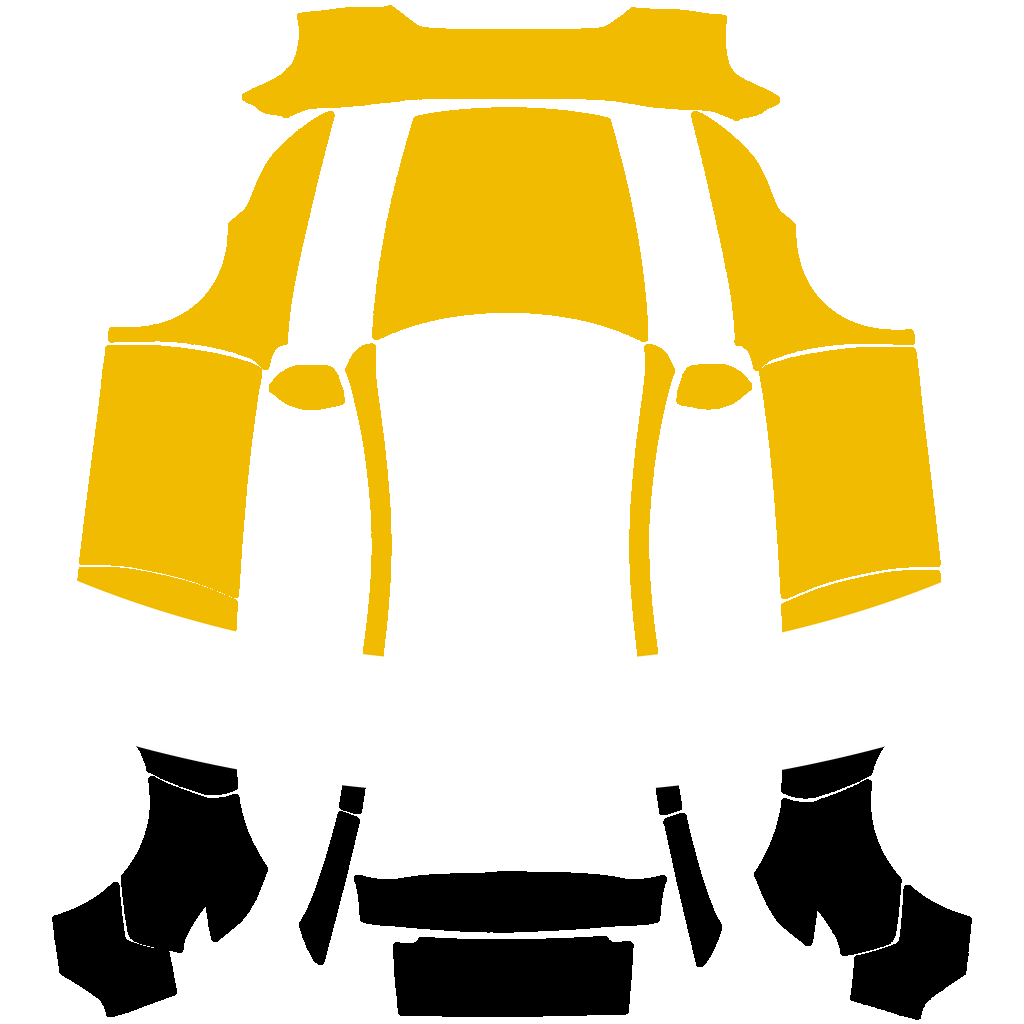
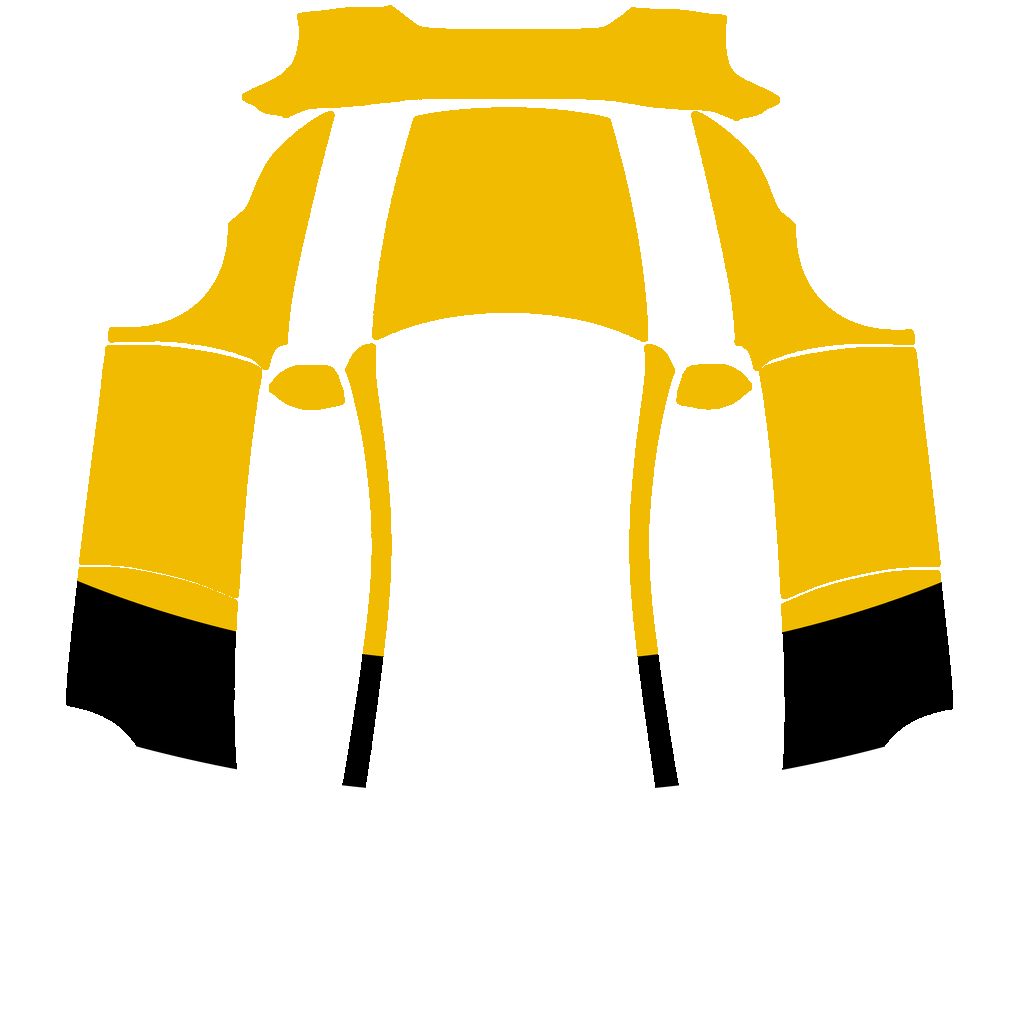
Use the dark-background 1Sat mark on the roundel wrap too
Same correction as the race wrap: this car has no background behind the
mark, but the ring order should still be the dark-background one. Out
from the nose it now runs yellow core, black ring, white tail, where it
previously ran yellow, white, black.

Only the colors move. The radii, the bow of the rings and the hard edges
are unchanged, so the split stays the logo's own at 59.8% core / 13.1%
middle / 26.8% outer by painted area.

The band constants are named for their role now rather than their color,
since the color at each radius is what changed.

Claude-Session: https://claude.ai/code/session_013EkZgiNsg33ygaCfzbPHPd

Changed region(s): [[0.2812, 0.625, 0.7188, 1.0], [0.7188, 0.5625, 0.9688, 1.0], [0.0312, 0.5625, 0.2812, 1.0]]

diff --git a/tools/gen_1sat_wrap.py b/tools/gen_1sat_wrap.py
@@ -3,8 +3,13 @@
 
 The concept: the 1Sat Ordinals roundel is stretched over the car from the nose
 outward, so the bullseye's rings wrap the body as real concentric rings -- the
-yellow core covers the front clip, the white ring bands the middle, and the
-black outer ring covers the tail.
+yellow core covers the front clip, the black ring bands the middle, and the
+white outer ring covers the tail.
+
+The mark ships in two versions, one for light backgrounds with black on the
+outside and one for dark backgrounds with white on the outside. This wrap uses
+the dark-background version, so the ring order out from the nose is yellow,
+black, white.
 
 Two properties of the wrap template make this work:
 
@@ -27,9 +32,10 @@ cuts across the image, every ring edge curves: it sits furthest back along the
 centerline (hood, roof, tailgate) and sweeps forward as it runs down the
 flanks, the way a stretched decal would.
 
-Radii come straight from the logo, so the proportions are the logo's own:
-yellow out to 0.602 of the radius, white to 0.734, black to the edge. Along the
-length of the car that reads as ~60% yellow, ~13% white, ~27% black.
+Radii come straight from the logo, so the proportions are the logo's own: the
+core out to 0.602 of the radius, the middle ring to 0.734, the outer ring to
+the edge. Along the length of the car that reads as ~60% yellow, ~13% black,
+~27% white.
 
 Edges are hard, as they are in the logo. They are rendered by supersampling and
 downsampling, which anti-aliases the boundary without softening it into a fade.
@@ -50,10 +56,11 @@ YELLOW = (240, 187, 0)
 WHITE = (255, 255, 255)
 BLACK = (0, 0, 0)
 
-# Ring radii as fractions of the logo's outer radius, measured from the same
-# file: the yellow core ends at 0.602, the white ring at 0.734.
-R_YELLOW = 0.602
-R_WHITE = 0.734
+# The three bands, nose outward, as the dark-background mark orders them, with
+# radii as fractions of the logo's outer radius measured off the logo file.
+CORE, R_CORE = YELLOW, 0.602
+MIDDLE, R_MIDDLE = BLACK, 0.734
+OUTER = WHITE
 
 # Center of the roundel, in template pixels: the middle of the front fascia
 # panel, which is the point of the car that goes through the logo first.
@@ -89,9 +96,9 @@ def build(template_path, out_path, preview_path=None):
     dist = np.sqrt(dx * dx + dy * dy)
 
     art = np.empty((H * SS, W * SS, 3), dtype=np.uint8)
-    art[...] = BLACK
-    art[dist <= outer * R_WHITE] = WHITE
-    art[dist <= outer * R_YELLOW] = YELLOW
+    art[...] = OUTER
+    art[dist <= outer * R_MIDDLE] = MIDDLE
+    art[dist <= outer * R_CORE] = CORE
 
     art = Image.fromarray(art).resize((W, H), Image.LANCZOS)
 
@@ -124,7 +131,7 @@ def main():
 
     art = np.array(Image.open(out).convert("RGB"))[painted]
     total = len(art)
-    for name, color in (("yellow", YELLOW), ("white", WHITE), ("black", BLACK)):
+    for name, color in (("core", CORE), ("middle", MIDDLE), ("outer", OUTER)):
         n = (np.abs(art.astype(int) - color).sum(axis=1) < 30).sum()
         print(f"  {name:6s} {n / total:6.1%} of painted area")
     print(f"{TRIM}: {os.path.getsize(out):,} bytes")
